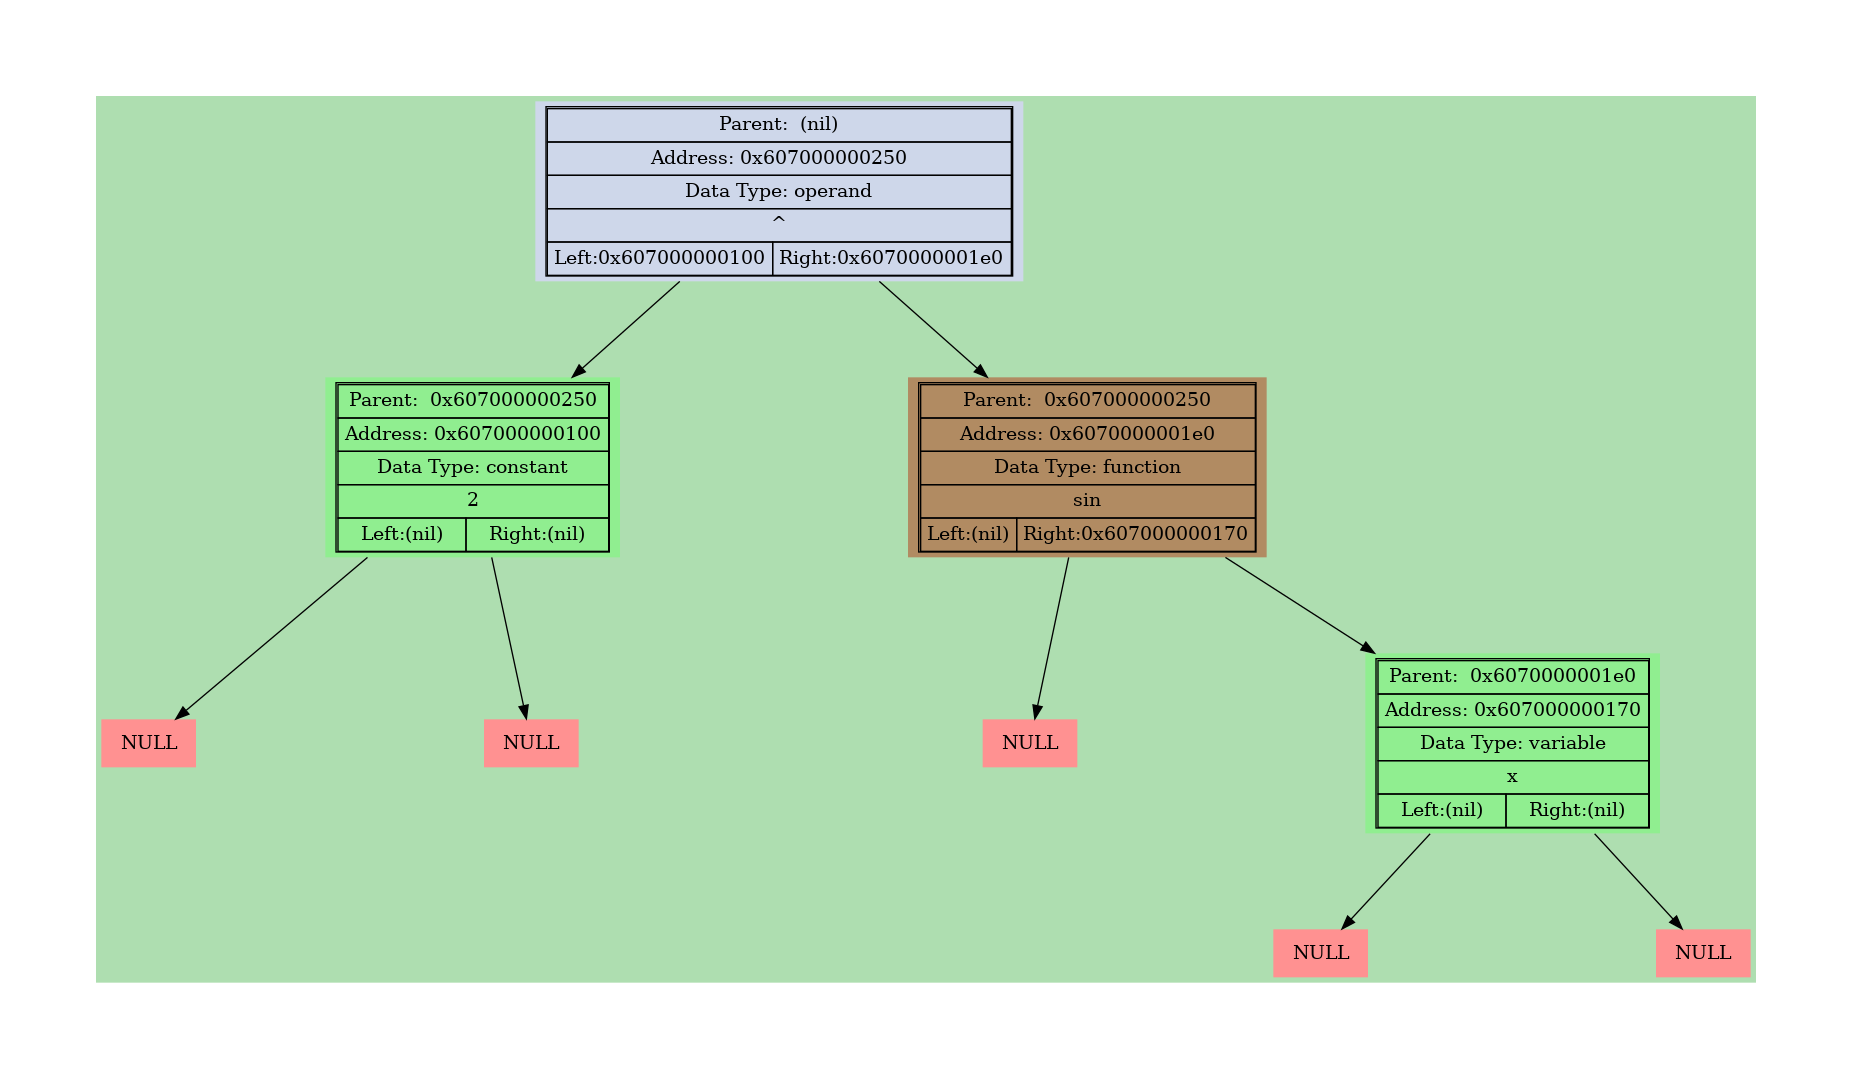
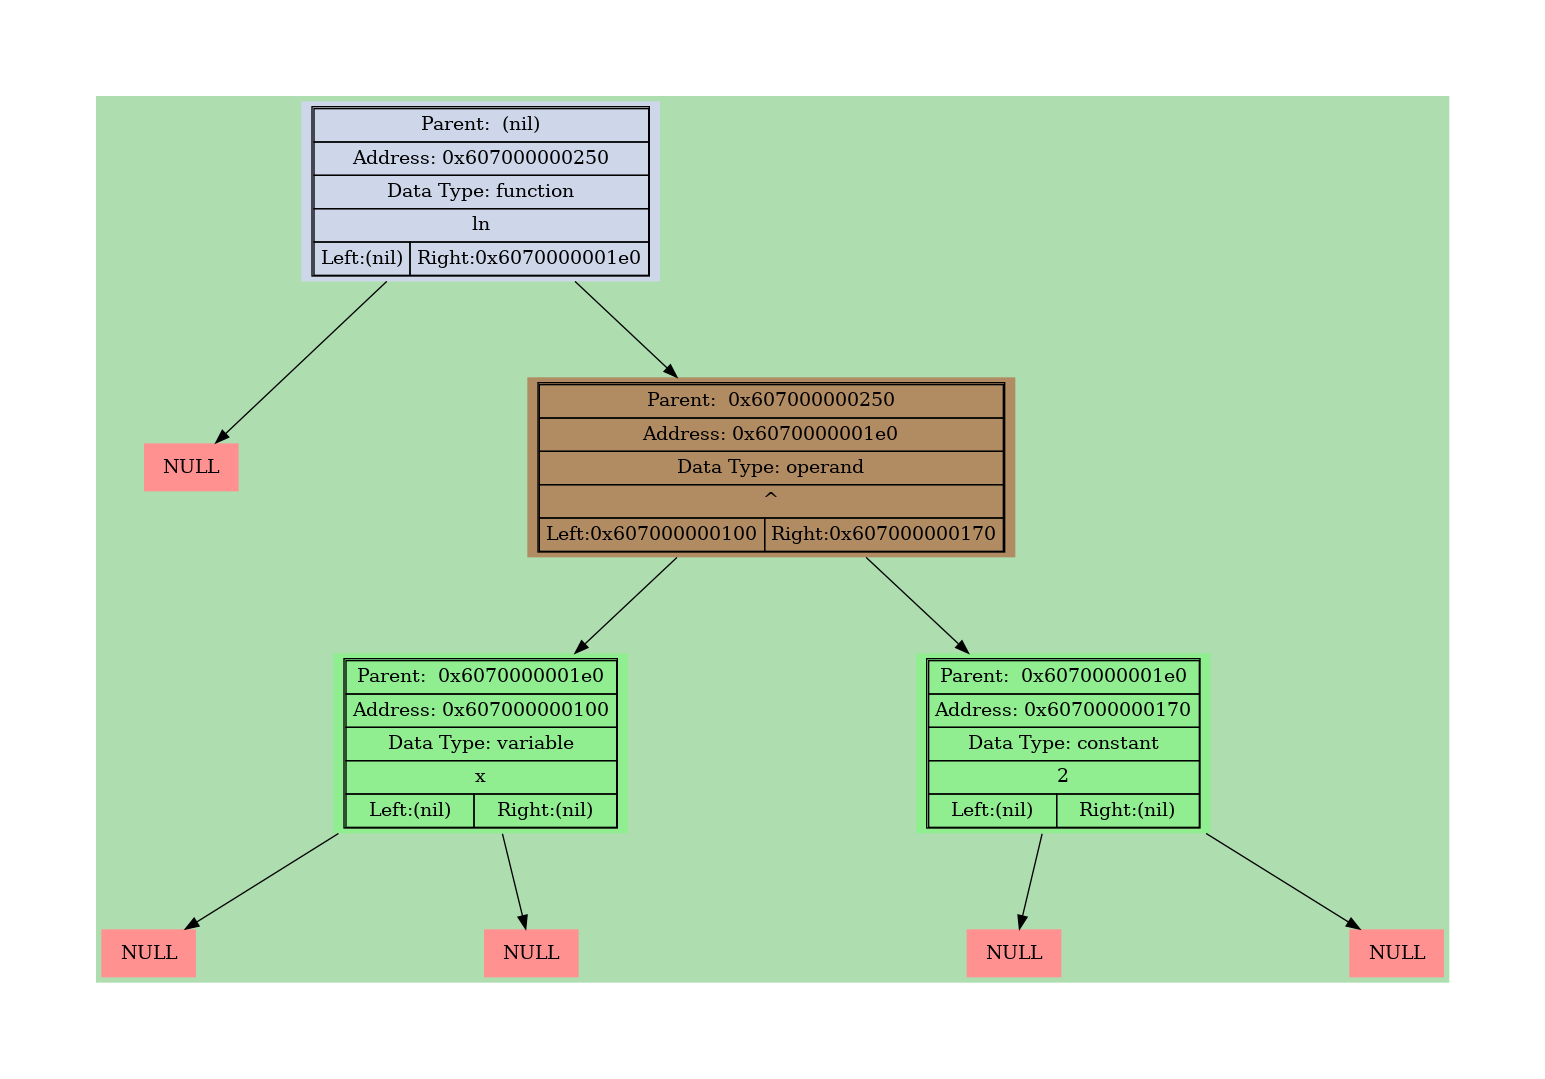
trig funcs diff added

diff --git a/inc/differ.h b/inc/differ.h
@@ -41,20 +41,24 @@ enum Text_Colors
 #define GETOPERNODE( oper_num, left, right) InitNewNode(OPERAND,   OPERVALUE(oper_num),    left,   right)
 #define GETFUNCNODE( func_num, right)       InitNewNode(FUNCTION,  FUNCVALUE(func_num), nullptr,   right)
 
-
 #define GETDIFFVARNODE(  node, variable)              ChangeNode(node, VARIABLE,  VARVALUE( variable), nullptr, nullptr)
 #define GETDIFFCONSTNODE(node, value)                 ChangeNode(node, CONST,     CONSTVALUE(  value), nullptr, nullptr)
 #define GETDIFFOPERNODE( node, oper_num, left, right) ChangeNode(node, OPERAND,   OPERVALUE(oper_num),    left,   right)
 #define GETDIFFFUNCNODE( node, func_num, right)       ChangeNode(node, FUNCTION,  FUNCVALUE(func_num), nullptr,   right)
 
-
 #define GETDIFFADDNODE(node)                GETDIFFOPERNODE(node, ADD_NUM, Differentiation(node->left), Differentiation(node->right))
 #define GETDIFFSUBNODE(node)                GETDIFFOPERNODE(node, SUB_NUM, Differentiation(node->left), Differentiation(node->right))
 #define GETDIFFMULNODE(node, cleft, cright) GETDIFFOPERNODE(node, ADD_NUM, GETOPERNODE(MUL_NUM, Differentiation(node->left), cright), GETOPERNODE(MUL_NUM, cleft, Differentiation(node->right)))
 #define GETDIFFDIVNODE(node, cleft, cright) GETDIFFOPERNODE(node, DIV_NUM, GETOPERNODE(SUB_NUM, GETOPERNODE(MUL_NUM, Differentiation(node->left), cright), GETOPERNODE(MUL_NUM, cleft, Differentiation(node->right))), GETOPERNODE(POW_NUM, CopyNode(cright), GETCONSTNODE(2)))
+
 #define GETDIFFPOWNODEVARCONST(node, cleft, cright) GETDIFFOPERNODE(node, MUL_NUM, GETOPERNODE(MUL_NUM, node->right, GETOPERNODE(POW_NUM, cleft, GETOPERNODE(SUB_NUM, cright, GETCONSTNODE(1)))), Differentiation(node->left))
 #define GETDIFFPOWNODECONSTVAR(node, cleft, cright) GETDIFFOPERNODE(node, MUL_NUM, GETOPERNODE(MUL_NUM, GETOPERNODE(POW_NUM, node->left, cright), GETFUNCNODE(LN_NUM, cleft)), Differentiation(node->right))
 // #define GETDIFFPOWNODEVARVAR(  node, cleft, cright) GETDIFFOPERNODE(node, POW_NUM, GETOPERNODE(), GETOPERNODE())
+
+#define GETDIFFSINNODE(node, cright) GETDIFFOPERNODE(node, MUL_NUM, GETFUNCNODE(COS_NUM, cright), Differentiation(node->right))
+#define GETDIFFCOSNODE(node, cright) GETDIFFOPERNODE(node, MUL_NUM, GETOPERNODE(SUB_NUM, GETCONSTNODE(0), GETFUNCNODE(SIN_NUM, cright)), Differentiation(node->right))
+#define GETDIFFTANNODE(node, cright) GETDIFFOPERNODE(node, MUL_NUM, GETOPERNODE(DIV_NUM, GETCONSTNODE(1), GETOPERNODE(POW_NUM, GETFUNCNODE(COS_NUM, cright), GETCONSTNODE(2))), Differentiation(node->right))
+#define GETDIFFLNNODE(node, cright)  GETDIFFOPERNODE(node, MUL_NUM, GETOPERNODE(DIV_NUM, GETCONSTNODE(1), cright), Differentiation(node->right))
 
 
 Differ_Err differ_is_err(const Differ_Err result, const char* name, const size_t line);
@@ -74,6 +78,14 @@ Node* MulDiff(Node* node);
 Node* DivDiff(Node* node);
 
 Node* PowDiff(Node* node);
+
+Node* SinDiff(Node* node);
+
+Node* CosDiff(Node* node) ;
+
+Node* TanDiff(Node* node) ;
+
+Node* LogDiff(Node* node) ;
 
 Node* CopyNode(Node* node);
 

diff --git a/src/differ.cpp b/src/differ.cpp
@@ -52,26 +52,23 @@ Node* Differentiation(Node* node) {
             assert(0);
         }
     }
-    #if 0
     else if (node->data_type == FUNCTION){
         if (node->value.funciton.func_num == SIN_NUM){
-            node = SinDiff();
+            node = SinDiff(node);
         }
         else if (node->value.funciton.func_num == COS_NUM){
-            node = CosDiff();
+            node = CosDiff(node);
         }
         else if (node->value.funciton.func_num == TAN_NUM){
-            node = TanDiff();
+            node = TanDiff(node);
         }
         else if (node->value.funciton.func_num == LN_NUM){
-            node = LogDiff();
+            node = LogDiff(node);
         }
         else{
             assert(0);
         }
-
     }
-    #endif
     else {
         assert(0);
     }
@@ -160,6 +157,26 @@ Node* ChangeNode(Node* node, const Data_Type data_type, const Value_Type value, 
     return node;
 }
 
+Node* SinDiff(Node* node) {
+    Node* cright = CopyNode(node->right);
+    return GETDIFFSINNODE(node, cright);
+}
+
+Node* CosDiff(Node* node) {
+    Node* cright = CopyNode(node->right);
+    return GETDIFFCOSNODE(node, cright);
+}
+
+Node* TanDiff(Node* node) {
+    Node* cright = CopyNode(node->right);
+    return GETDIFFTANNODE(node, cright);
+}
+
+Node* LogDiff(Node* node) {
+    Node* cright = CopyNode(node->right);
+    return GETDIFFLNNODE(node, cright);
+}
+
 int IsVarInBranch(Node* node) { // node->left needed for base node->right needed for power
     if (node->left)
         return IsVarInBranch(node->left);
@@ -174,24 +191,6 @@ int IsVarInBranch(Node* node) { // node->left needed for base node->right needed
     return value;
 }
 
-#if 0
-Node* SinDiff() { // NOTE read next line comment
-    return InitNewNode(FUNCTION, /*GetValue with mul*/, Differentiation(right), InitNewNode(, /*init with cos here*/,,)); // NOTE mul with diff of inside func or divide by cases???????
-}
-
-Node* CosDiff() {
-    return InitNewNode();
-}
-
-Node* TanDiff() {
-
-}
-
-Node* LogDiff() {
-
-}
-
-#endif
 
 Node* DiffLeaf(Node* node) {
     if (node->data_type == CONST)
